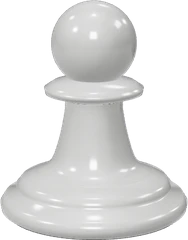
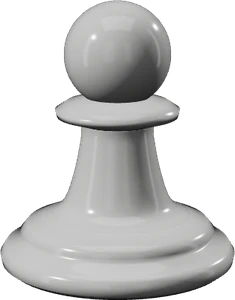
feat(learn): tighter chess.com-style band, rounded slabs, studio-lit pieces
Grid is now a three-diamond band on a dark page; slabs are rounded squares
filling their diamond with a flat face; pieces re-rendered with a studio
environment (crisp reflections), larger and centred in their cells.

Claude-Session: https://claude.ai/code/session_016y2cuuohN1vdtRmg6vUaKN

diff --git a/frontend/src/features/learn/LearnMap.tsx b/frontend/src/features/learn/LearnMap.tsx
@@ -17,7 +17,7 @@ interface LearnMapProps {
 }
 
 const DECOR = ['bishop', 'rook', 'knight', 'pawn', 'queen', 'bishop', 'king', 'pawn', 'rook', 'knight'] as const;
-const PIECE_H: Record<string, number> = { pawn: 15.5, rook: 19, bishop: 21.5, knight: 20, queen: 22.5, king: 23.5 };
+const PIECE_H: Record<string, number> = { pawn: 20, rook: 24, bishop: 28, knight: 26, queen: 29.5, king: 31 };
 
 const cq = (n: number) => `${n}cqw`;
 
@@ -25,7 +25,7 @@ const cq = (n: number) => `${n}cqw`;
 const GlossyPiece: React.FC<{ piece: string }> = ({ piece }) => (
   <div className="relative flex flex-col items-center" aria-hidden="true">
     <img src={`/assets/learn/piece_${piece}.webp`} alt="" draggable={false} style={{ height: cq(PIECE_H[piece] ?? 20), width: 'auto', position: 'relative', zIndex: 1 }} />
-    <span className="rounded-[50%]" style={{ width: cq(13), height: cq(3.6), marginTop: cq(-2.4), background: 'radial-gradient(closest-side, rgba(0,0,0,0.55), rgba(0,0,0,0))' }} />
+    <span className="rounded-[50%]" style={{ width: cq(18), height: cq(4.4), marginTop: cq(-3), background: 'radial-gradient(closest-side, rgba(0,0,0,0.55), rgba(0,0,0,0))' }} />
   </div>
 );
 
@@ -56,10 +56,10 @@ const Slab: React.FC<{ top: string; side: string; outline?: boolean; sheen?: num
         <stop offset="0.6" stopColor="#fff" stopOpacity="0" />
       </linearGradient>
     </defs>
-    <polygon points="50,11 95,47 50,83 5,47" fill={side} stroke={side} strokeWidth="9" strokeLinejoin="round" />
-    <polygon points="50,5 95,41 50,77 5,41" fill={top} stroke={top} strokeWidth="9" strokeLinejoin="round" />
-    <polygon points="50,5 95,41 50,77 5,41" fill="url(#slab-sheen)" stroke="none" />
-    {outline && <polygon points="50,5 95,41 50,77 5,41" fill="none" stroke="rgba(255,255,255,0.85)" strokeWidth="2.6" strokeLinejoin="round" />}
+    <polygon points="50,17 89,47 50,77 11,47" fill={side} stroke={side} strokeWidth="18" strokeLinejoin="round" />
+    <polygon points="50,11 89,41 50,71 11,41" fill={top} stroke={top} strokeWidth="18" strokeLinejoin="round" />
+    <polygon points="50,11 89,41 50,71 11,41" fill="url(#slab-sheen)" stroke="url(#slab-sheen)" strokeWidth="18" strokeLinejoin="round" />
+    {outline && <polygon points="50,2.5 98.5,41 50,79.5 1.5,41" fill="none" stroke="rgba(255,255,255,0.85)" strokeWidth="2.6" strokeLinejoin="round" />}
   </svg>
 );
 
@@ -118,8 +118,8 @@ export const LearnMap: React.FC<LearnMapProps> = ({ stages, selectedId, onSelect
   // background diamonds: even rows at 27% and 73%, odd rows at 4%, 50% and 96%
   const cells: { row: number; x: number; col: number }[] = [];
   for (let r = -1; r <= layout.rows; r++) {
-    if (r % 2 === 0) [-65, -19, 27, 73, 119, 165].forEach((x, i) => cells.push({ row: r, x, col: i }));
-    else [-88, -42, 4, 50, 96, 142, 188].forEach((x, i) => cells.push({ row: r, x, col: i }));
+    if (r % 2 === 0) [27, 73].forEach((x, i) => cells.push({ row: r, x, col: i }));
+    else [50].forEach((x, i) => cells.push({ row: r, x, col: i }));
   }
 
   return (
@@ -154,7 +154,7 @@ export const LearnMap: React.FC<LearnMapProps> = ({ stages, selectedId, onSelect
               const x = it.slot === 'l' ? SLOT_X.r : SLOT_X.l;
               const piece = DECOR[(idx * 3 + it.row) % DECOR.length];
               return (
-                <div key={`d-${it.stage.id}`} className="absolute flex items-end justify-center pointer-events-none" style={{ left: `calc(${x}% - ${cq(10)})`, width: cq(20), bottom: `calc(100% - ${cq(rowCenter(it.row) + 5.5)})` }}>
+                <div key={`d-${it.stage.id}`} className="absolute flex items-end justify-center pointer-events-none" style={{ left: `calc(${x}% - ${cq(14)})`, width: cq(28), bottom: `calc(100% - ${cq(rowCenter(it.row) + 9)})` }}>
                   <GlossyPiece piece={piece} />
                 </div>
               );
@@ -198,14 +198,14 @@ export const LearnMap: React.FC<LearnMapProps> = ({ stages, selectedId, onSelect
                   aria-current={sel ? 'true' : undefined}
                   data-testid={`learn-tile-${s.id}`}
                   className="absolute block group focus:outline-none"
-                  style={{ left: `calc(${x}% - ${cq(15.5)})`, width: cq(31), height: cq(27.9), top: cq(rowCenter(it.row) - 13.2), zIndex: hot ? 3 : 2 }}
+                  style={{ left: `calc(${x}% - ${cq(17)})`, width: cq(34), height: cq(30.6), top: cq(rowCenter(it.row) - 13.9), zIndex: hot ? 3 : 2 }}
                 >
                   {hot && <span aria-hidden="true" className="absolute inset-[8%] rounded-[50%] blur-[3cqw]" style={{ background: th.glow }} />}
                   <span className="absolute inset-0 transition-transform duration-150 group-hover:-translate-y-[0.5cqw] group-active:translate-y-[0.6cqw]">
-                    <Slab top={top} side={side} outline={sel && !hot} sheen={hot ? 0.28 : 0.1} />
+                    <Slab top={top} side={side} outline={sel && !hot} sheen={hot ? 0.18 : 0} />
                     <span className="absolute flex items-center justify-center" style={{ left: '50%', top: '45.5%', transform: 'translate(-50%,-50%) scaleY(0.92)' }}>
                       <Icon
-                        style={{ width: cq(hot ? 9 : 8), height: cq(hot ? 9 : 8), color: hot || done ? '#ffffff' : th.icon, opacity: done ? 0.92 : 1 }}
+                        style={{ width: cq(hot ? 11 : 10), height: cq(hot ? 11 : 10), color: hot || done ? '#ffffff' : th.icon, opacity: done ? 0.92 : 1 }}
                         strokeWidth={hot ? 2.6 : 2.2}
                       />
                     </span>
@@ -213,7 +213,7 @@ export const LearnMap: React.FC<LearnMapProps> = ({ stages, selectedId, onSelect
                   {hot && (
                     <span
                       className="absolute left-1/2 -translate-x-1/2 bg-white text-[#2b2926] font-display font-extrabold rounded-[1.2cqw] pointer-events-none whitespace-nowrap"
-                      style={{ top: cq(-7.2), padding: `${cq(1)} ${cq(3.2)}`, fontSize: cq(4.8), boxShadow: `0 0 0 ${cq(0.5)} rgba(255,255,255,.25), 0 ${cq(1)} ${cq(3)} rgba(0,0,0,.35)` }}
+                      style={{ top: cq(-6), padding: `${cq(1)} ${cq(3.2)}`, fontSize: cq(4.8), boxShadow: `0 0 0 ${cq(0.5)} rgba(255,255,255,.25), 0 ${cq(1)} ${cq(3)} rgba(0,0,0,.35)` }}
                     >
                       Next
                       <span className="absolute left-1/2 -translate-x-1/2 bg-white rotate-45" style={{ bottom: cq(-1), width: cq(2.4), height: cq(2.4) }} />

diff --git a/frontend/scripts/learn-assets/render.html b/frontend/scripts/learn-assets/render.html
@@ -14,7 +14,15 @@ renderer.outputColorSpace = THREE.SRGBColorSpace;
 document.body.appendChild(renderer.domElement);
 const scene = new THREE.Scene();
 const pm = new THREE.PMREMGenerator(renderer);
-scene.environment = pm.fromScene(new RoomEnvironment(), 0.03).texture;
+// studio: dark room with a big softbox overhead and two strip lights, for crisp porcelain reflections
+const studio = new THREE.Scene(); studio.background = new THREE.Color(0x3c3c3c);
+const em = (c, w, h, x, y, z, rx, ry) => { const m = new THREE.Mesh(new THREE.PlaneGeometry(w, h), new THREE.MeshBasicMaterial({ color: c, side: THREE.DoubleSide })); m.position.set(x, y, z); m.rotation.set(rx, ry, 0); studio.add(m); };
+em(0xffffff, 6, 4, 0, 6, 1, Math.PI / 2, 0);
+em(0xffffff, 1.2, 8, -6, 1, 2, 0, Math.PI / 2);
+em(0xdddddd, 0.8, 8, 6, 1, -1, 0, -Math.PI / 2);
+em(0xaaaaaa, 3, 6, -2.5, 2, 7, 0, Math.PI); em(0x999999, 2, 6, 3, 2, 7, 0, Math.PI);
+em(0x333333, 20, 20, 0, -2, 0, -Math.PI / 2, 0);
+scene.environment = P.get('studio') === '0' ? pm.fromScene(new RoomEnvironment(), 0.03).texture : pm.fromScene(studio, 0.02).texture;
 const key = new THREE.DirectionalLight(0xffffff, parseFloat(P.get('k')||'2.4')); key.position.set(-5, 4, 2.2); scene.add(key);
 const rim = new THREE.DirectionalLight(0xffffff, 1.2); rim.position.set(5, 3, -4); scene.add(rim);
 const mat = new THREE.MeshPhysicalMaterial({ color: new THREE.Color(P.get('c')||'#dcdcda'), roughness: 0.14, metalness: 0.0, clearcoat: 1, clearcoatRoughness: 0.08, envMapIntensity: parseFloat(P.get('env')||'0.55') });
